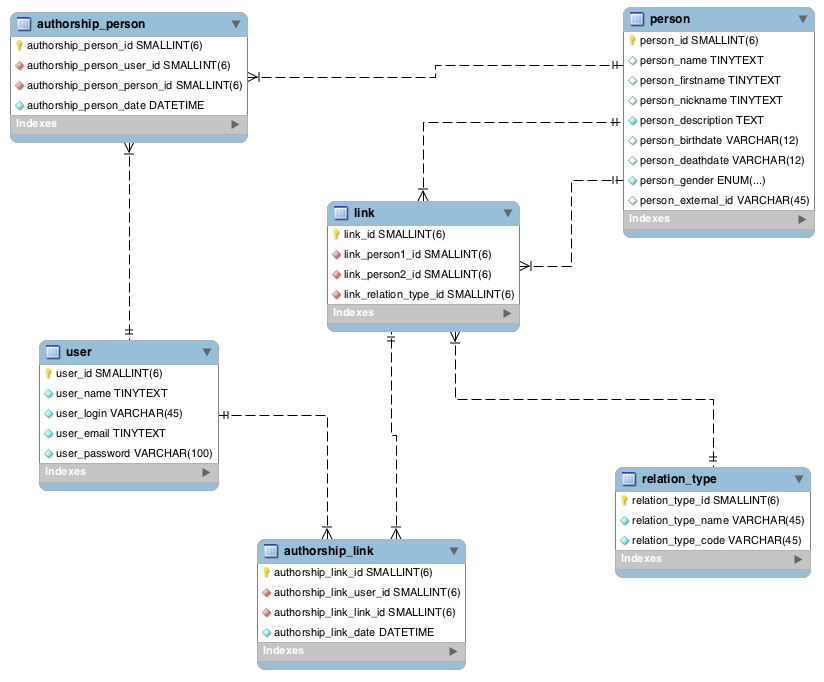
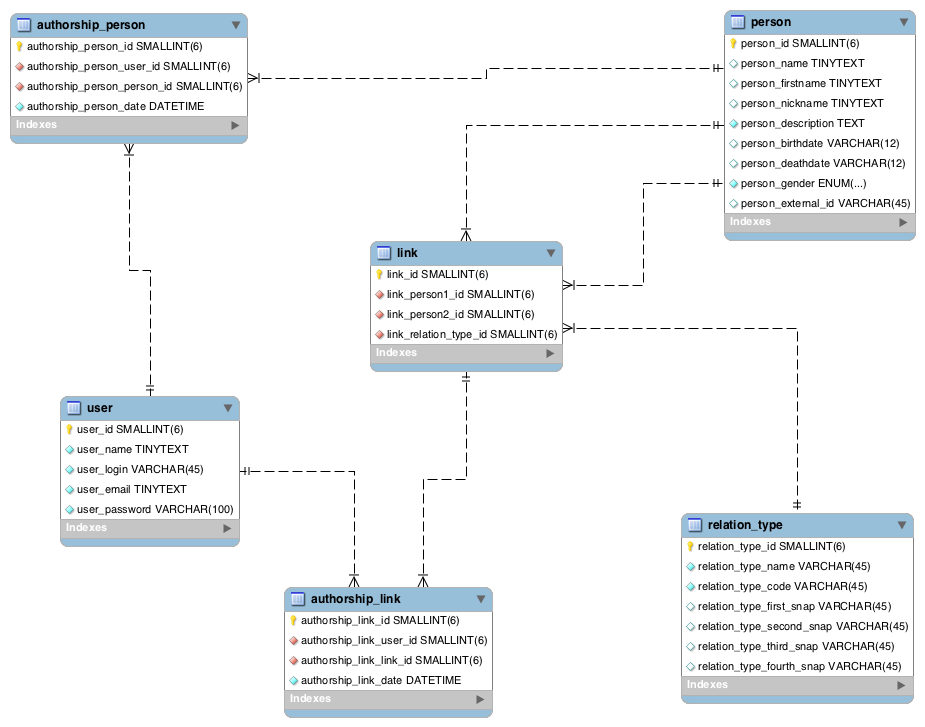
Suppression du fichier nano.save

diff --git a/hoozhoo/templates/conteneur_complet.html b/hoozhoo/templates/conteneur_complet.html
@@ -8,25 +8,28 @@
 		</head>
 		<body>
 			<nav class="navbar navbar-expand navbar-light justify-content-between" style="background-color: #e6e6e6;">
-				<a class="navbar-brand" href="#">Hoozhoo</a>
+				<a class="navbar-brand" href="{{ url_for('accueil') }}">Hoozhoo</a>
 					<ul class="navbar-nav mr-auto">
 						<li class="nav-item">
-							<a class="nav-link" href="#">Index</a>
+							<a class="nav-link" href="{{url_for("inscription")}}">Index</a>
+						</li>
+						{% if not current_user.is_authenticated %}
+						<li class="nav-item">
+							<a class="nav-link" href="{{url_for("browse")}}">Contribuer</a>
 						</li>
 						<li class="nav-item">
-							<a class="nav-link" href="#">Contribuer</a>
+							<a class="nav-link" href="{{url_for("connexion")}}">Connexion</a>
+						</li>
+						{% else %}
+						<li class="nav-item">
+							<a class="nav-link" href="{{url_for("deconnexion")}}">Déconnexion ({{current_user.user_nom}})</a>
 						</li>
 						<li class="nav-item">
-							<a class="nav-link" href="#">Connexion</a>
+							<a class="nav-link" href="{{url_for("contact")}}">Contact</a>
 						</li>
-						<li class="nav-item">
-							<a class="nav-link" href="#">Déconnexion ()</a>
-						</li>
-						<li class="nav-item">
-							<a class="nav-link" href="#">Contact</a>
-						</li>
+						{% endif %}				
 					</ul>
-				<form class="form-inline" action="#" method="GET">
+				<form class="form-inline" action="{{url_for("recherche")}}" method="GET">
 				<input class="form-control" name="keyword" type="search" placeholder="Recherche" aria-label="Recherche">
 				<button class="btn btn-secondary" type="submit">Rechercher <i class="fa fa-search"></i></button>
 				</form>
@@ -42,22 +45,18 @@
 	            		{% endfor %}
 	              	</div>
 	          	</div>
-				{% endif %}
-				{% endwith %}
-
 	        	<div class="row">
 	            	<div class="col">
 	            	{% block corps %}{% endblock %}
 	            </div>
 	        	</div>
-
 	        </div>
         <footer class="container-fluid-expand" style="background-color: #e6e6e6; padding: 20px">
         	<div class="footer-item">
             	<div class="col-lg-12 text-center">
                 	<a href="https://github.com/Chartes-TNAH/dico-proso" class="text-secondary">  <i class="fa fa-github"></i> Github</a>
-                	<a href="#" class="text-secondary">  <i class="fa fa-envelope"></i> Contact</a>
-                	<a href="{{url_for("about")}}" class="text-secondary">A propos</a>
+                	<a href="{{url_for("contact")}}" class="text-secondary">  <i class="fa fa-envelope"></i> Contact</a>
+                	<a href="{{url_for("a_propos")}}" class="text-secondary">A propos</a>
              	</div>
          	</div>
         </footer>

diff --git a/hoozhoo/templates/pages/about.html b/hoozhoo/templates/pages/about.html
@@ -1,0 +1,13 @@
+{% extends "conteneur.html" %}
+{% block corps %}
+<h1>A propos du projet Hoozhoo</h1>
+<p>Cette application a été développée dans le cadre d'une évaluation pour le cours de Python du Master 2 Technologies numériques appliquées à l'histoire de l'Ecole nationale des chartes. Elle vise à permettre la mise en place d'un dictionnaire prosopographique incluant une gestion des relations entre personnes, sur la base de l'<a href="https://snapdrgn.net/ontology">ontologie SNAP</a>.</p>
+<h2>Participant.es au projet :</h2>
+<ul>
+<li>Ekaterina Batova</li>
+<li>Alix Chagué</li>
+<li>Eglantine Charmetant</li>
+<li>Léa Duflos</li>
+<li>Aurélia Vasile</li>
+</ul>
+{% endblock %}

diff --git a/hoozhoo/modeles/donnees.py b/hoozhoo/modeles/donnees.py
@@ -27,6 +27,10 @@ class Relation_type(db.Model):
     relation_type_id = db.Column(db.Integer, unique=True, nullable=False, autoincrement=True, primary_key=True)
     relation_type_name = db.Column(db.String(45), nullable=False)
     relation_type_code = db.Column(db.String(45), nullable=False)
+    relation_type_first_snap = db.Column(db.String(45))
+    relation_type_second_snap = db.Column(db.String(45))
+    relation_type_third_snap = db.Column(db.String(45))
+    relation_type_fourth_snap = db.Column(db.String(45))
 # Jointure
     type_link = db.relationship("Link", back_populates="relations")
 

diff --git a/hoozhoo/routes/generic.py b/hoozhoo/routes/generic.py
@@ -10,4 +10,7 @@ def debut():
     return "Hello"
 
 
+@app.route("/a-propos")
+def about():
+    return render_template("pages/about.html")
 
